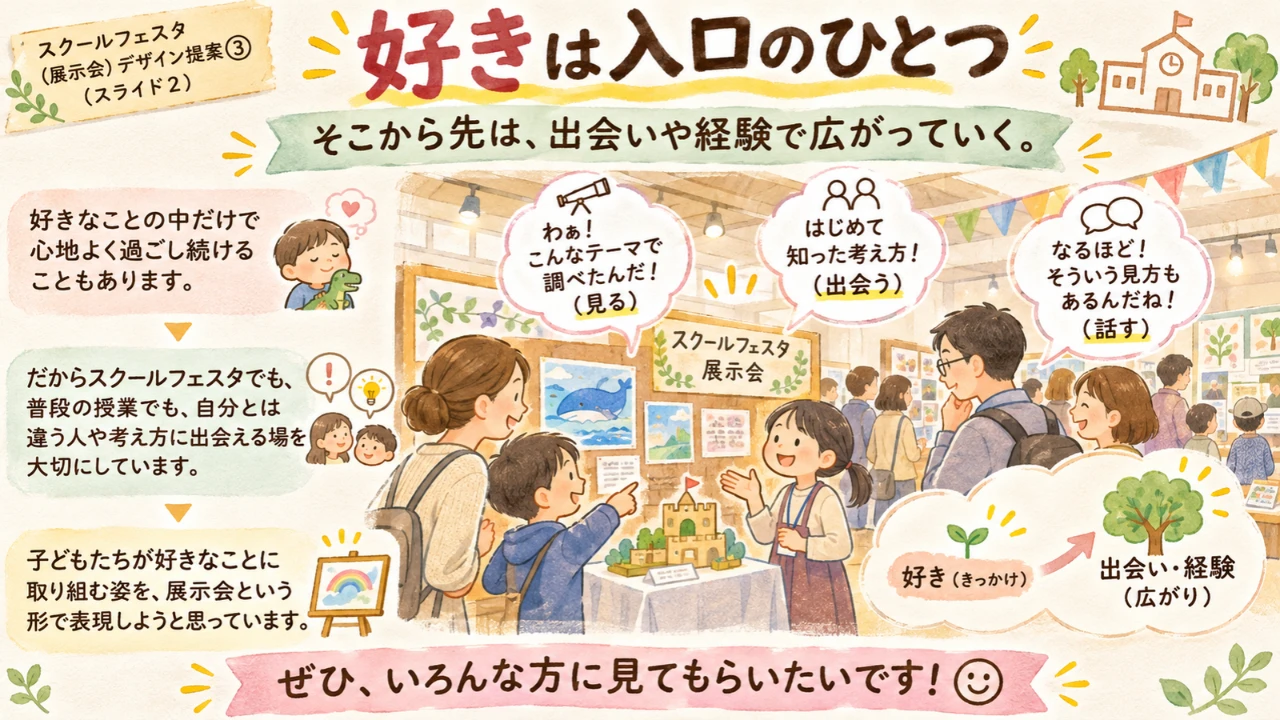
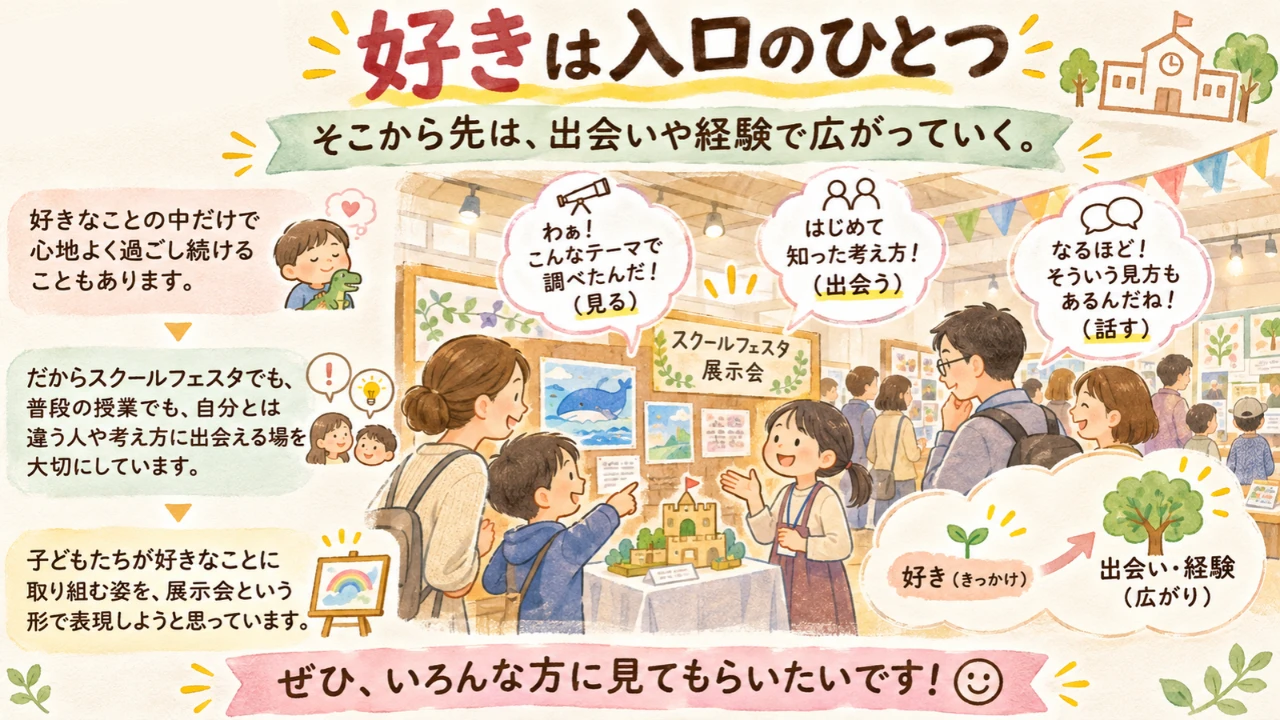
festa/2611: 申込フォームURLを元に戻し、配信3枚目を差し替え
Claude-Session: https://claude.ai/code/session_01Hxoi47MVb2tL6D7YJmehjv

Changed region(s): [[0.0, 0.0, 0.2188, 0.1833]]

diff --git a/app/(site)/festa/2611/Festa2611Content.tsx b/app/(site)/festa/2611/Festa2611Content.tsx
@@ -12,7 +12,7 @@ import { FESTA_HERO_IMG } from "../FestaContent";
    - PC の中央480pxカラムでもスマホと同じ見た目になるよう、ビューポート分岐（sm:/lg:）は使わない
 ============================================================ */
 
-const APPLY_URL = "https://forms.gle/Wip8i69WwiVHGbXNA";
+const APPLY_URL = "https://forms.gle/6oY7gJT1XhenFQEz7";
 const EXHIBITION_HREF = "/futurecraft/Exhibition";
 const STORY_HREF = "/student-story";
 

diff --git a/docs/FESTA_2611_PANEL.md b/docs/FESTA_2611_PANEL.md
@@ -26,7 +26,7 @@ Web版は `/festa/2611` の「パネル展示」セクション。
 3. 好きは入口のひとつ(出会いや経験で広がる)
 4. スクール生8人の、いま取り組んでいること
 
-※3枚目の左上に「スクールフェスタ(展示会)デザイン提案③(スライド2)」という制作メモが残っている。印刷前に消すかどうか確認。
+※3枚目は制作メモを消した版に差し替え済み。
 
 ### B. めくり扉(4つ)
 
